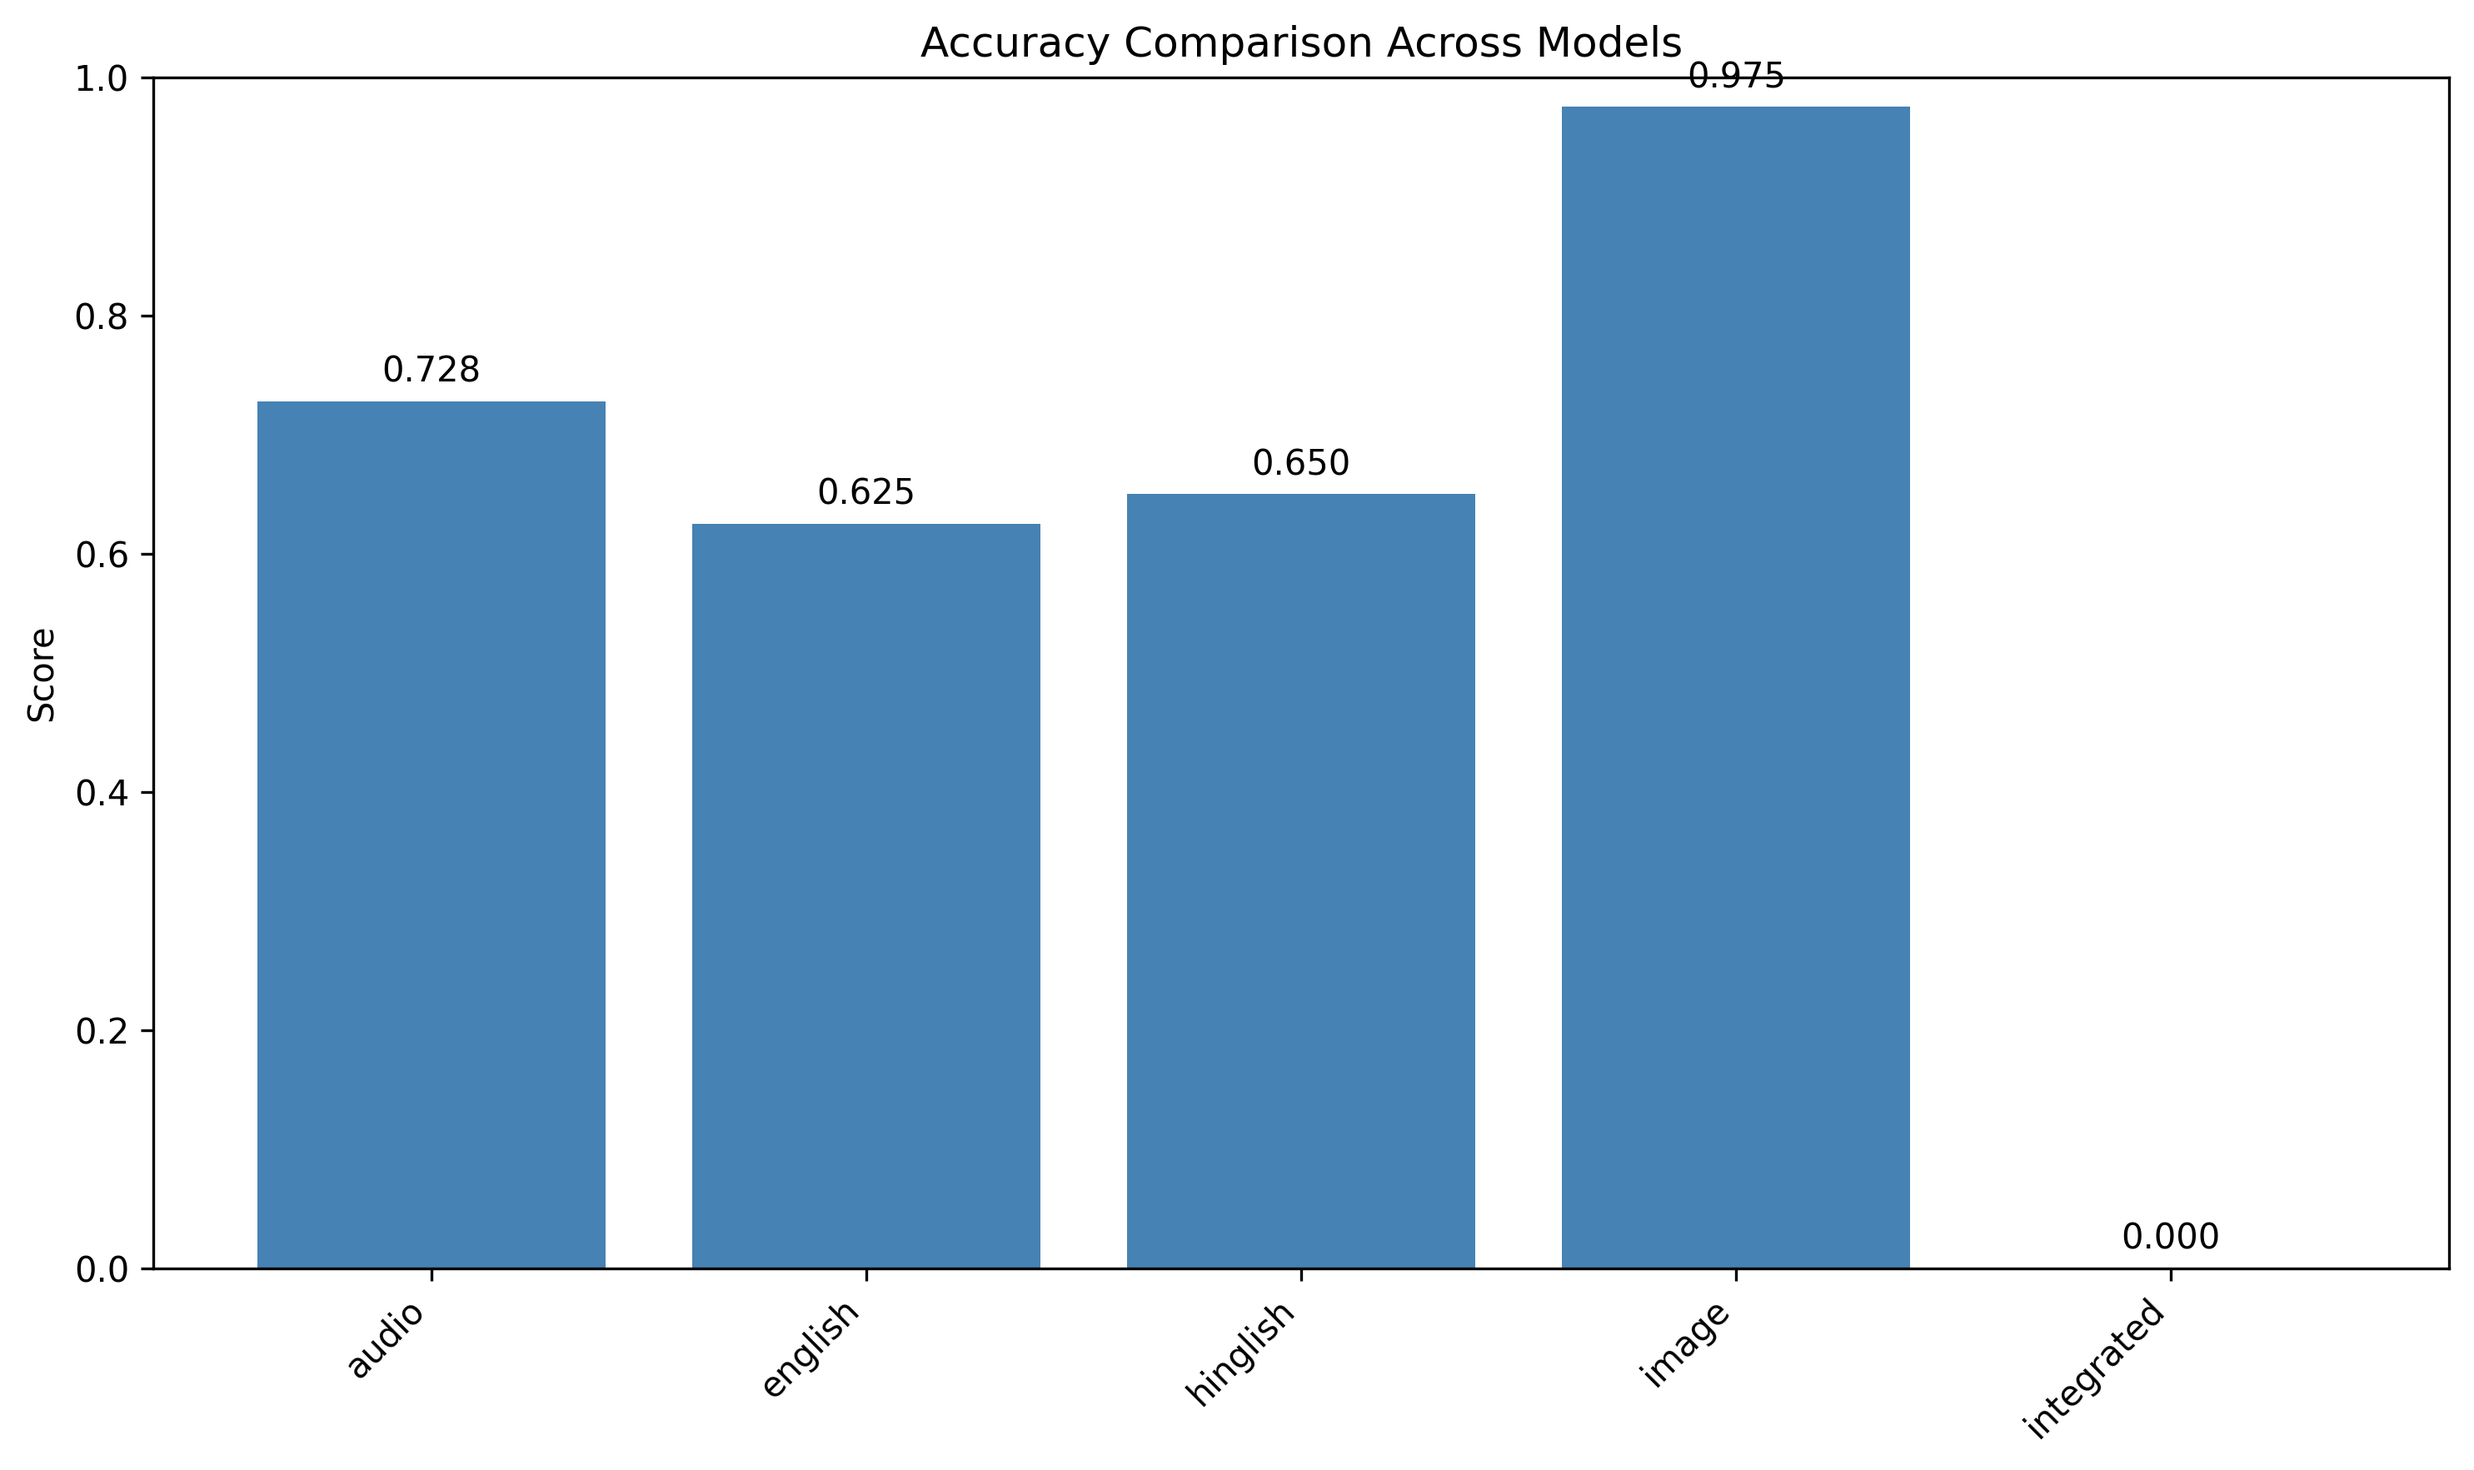
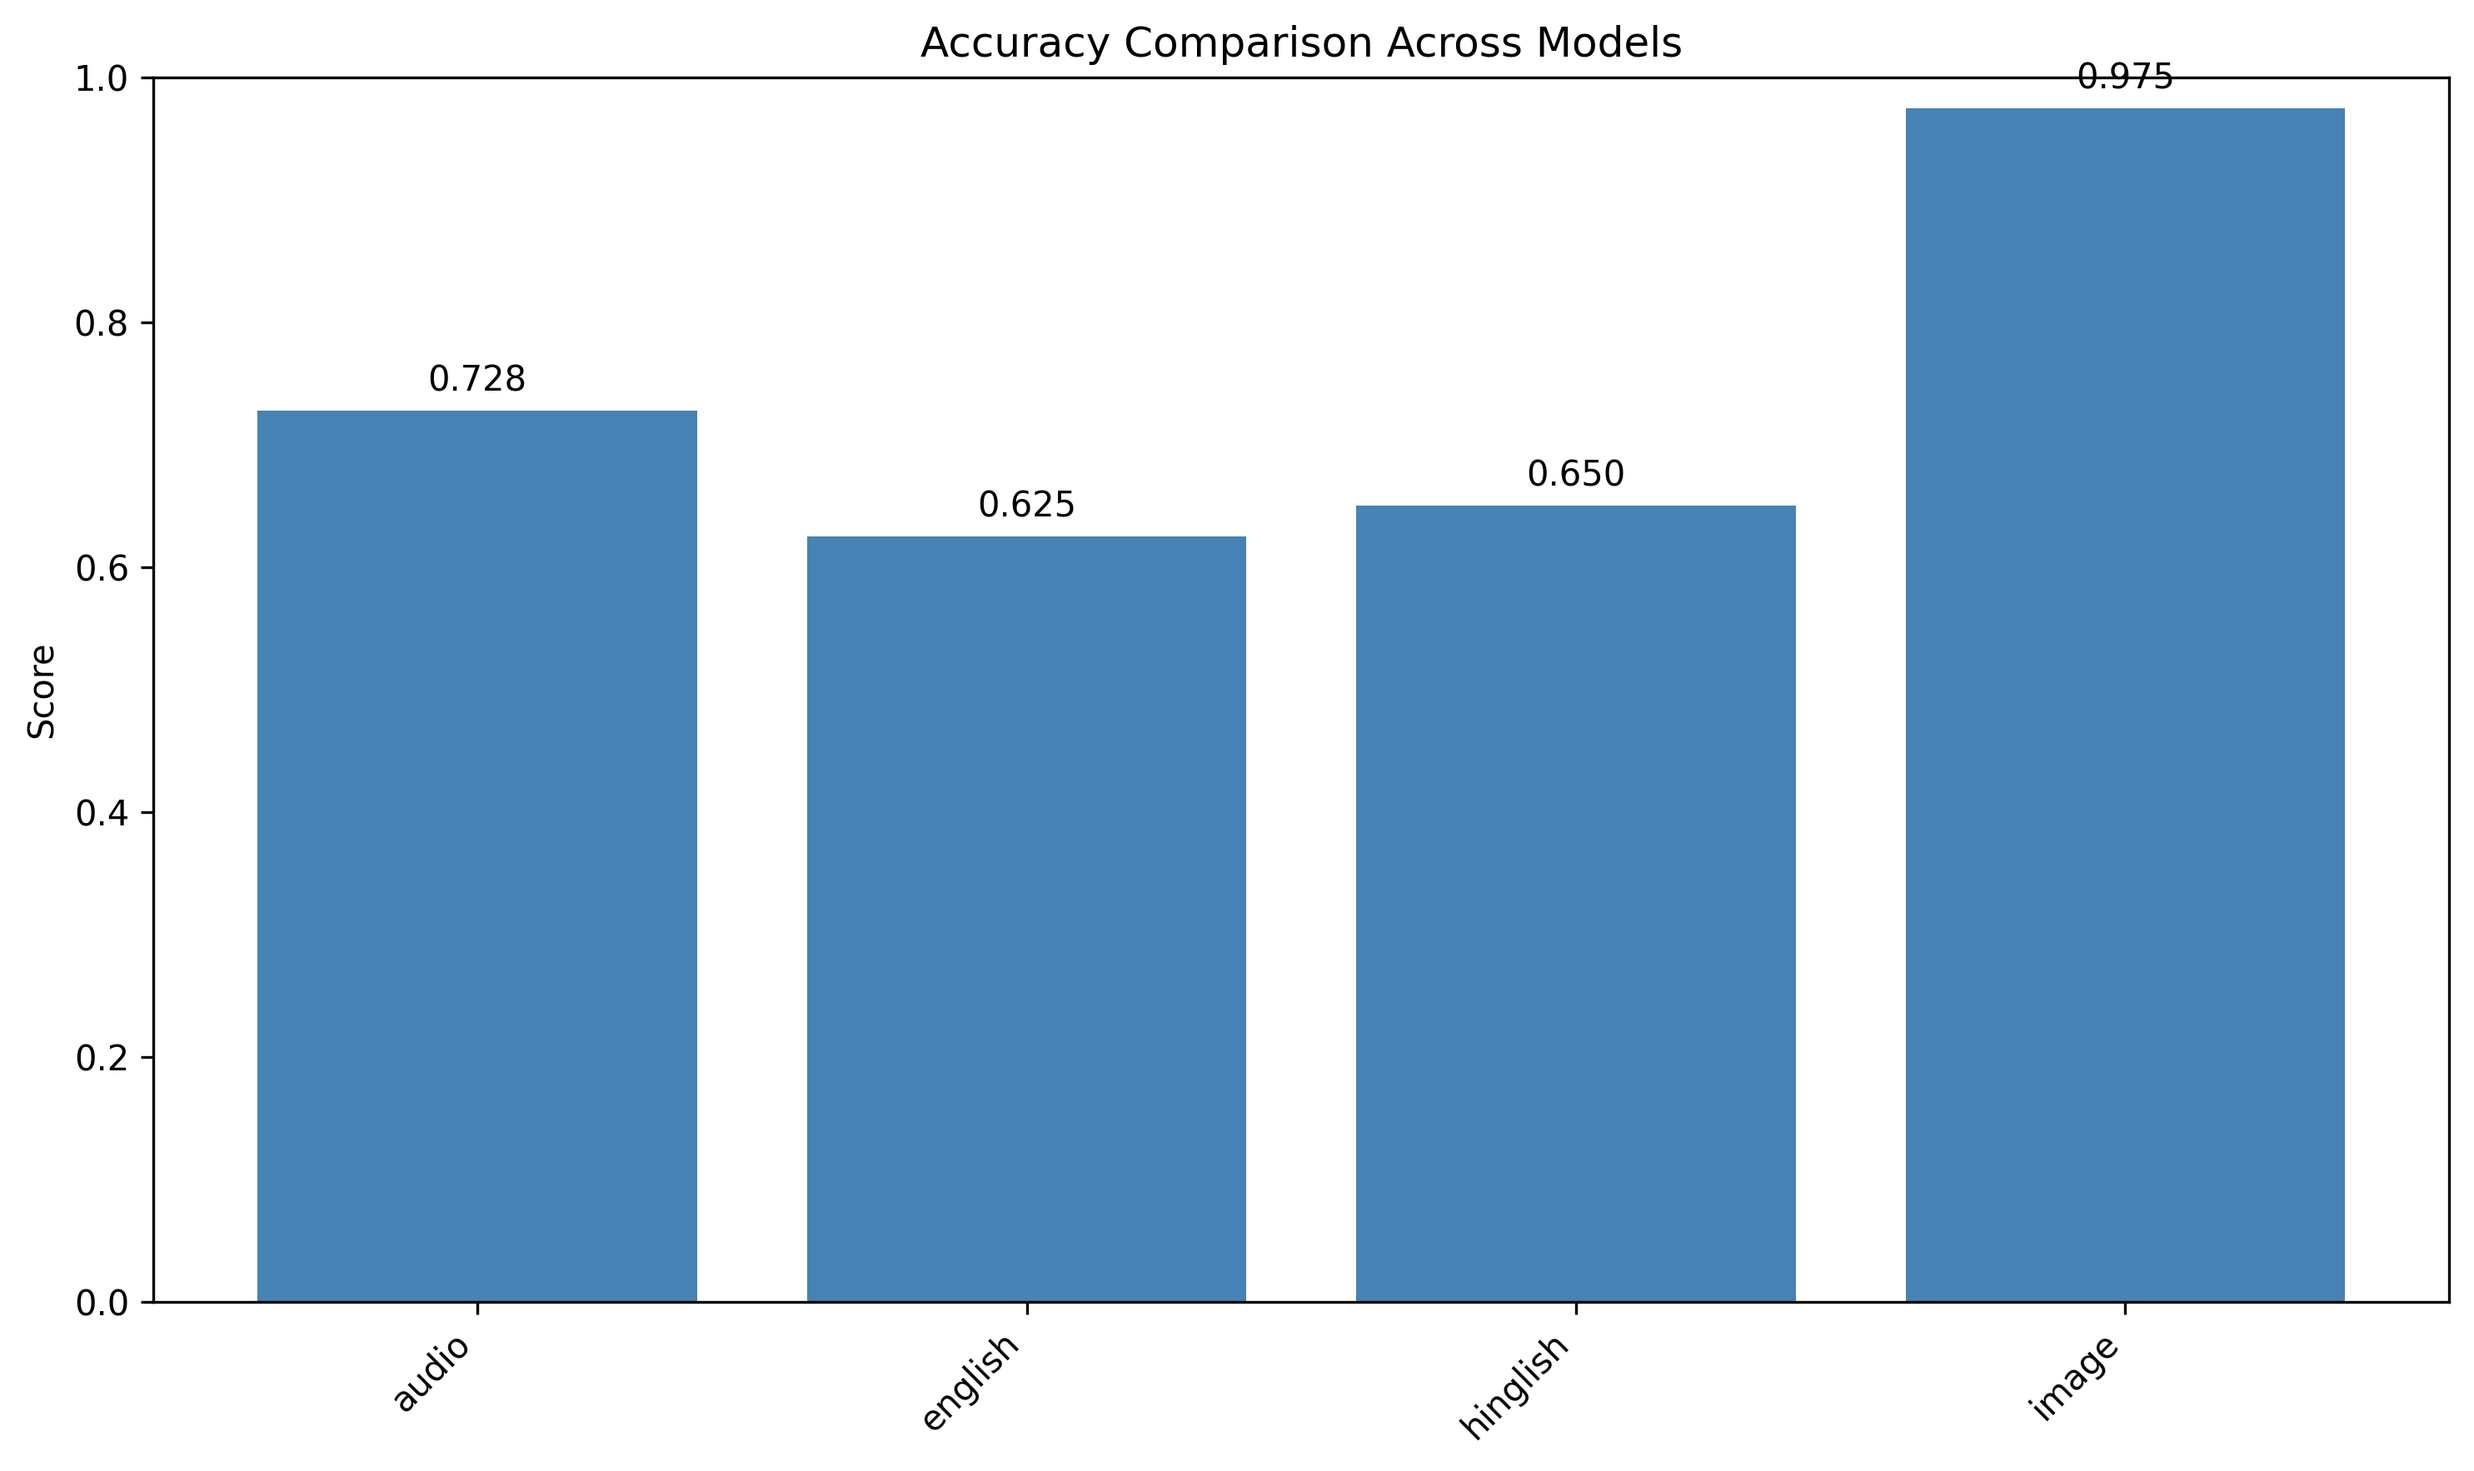
Add visualizations

diff --git a/analysis/utils/visualization.py b/analysis/utils/visualization.py
@@ -83,6 +83,8 @@ def plot_distribution(distribution_dict: Dict[str, int],
     plt.close()
 
 def generate_all_visualizations(results_data: Dict[str, Dict]) -> None:
+    results_data.pop('integrated', None)
+    print(results_data)
     for model, data in results_data.items():
         if 'confusion_matrix' in data:
             plot_confusion_matrix(
